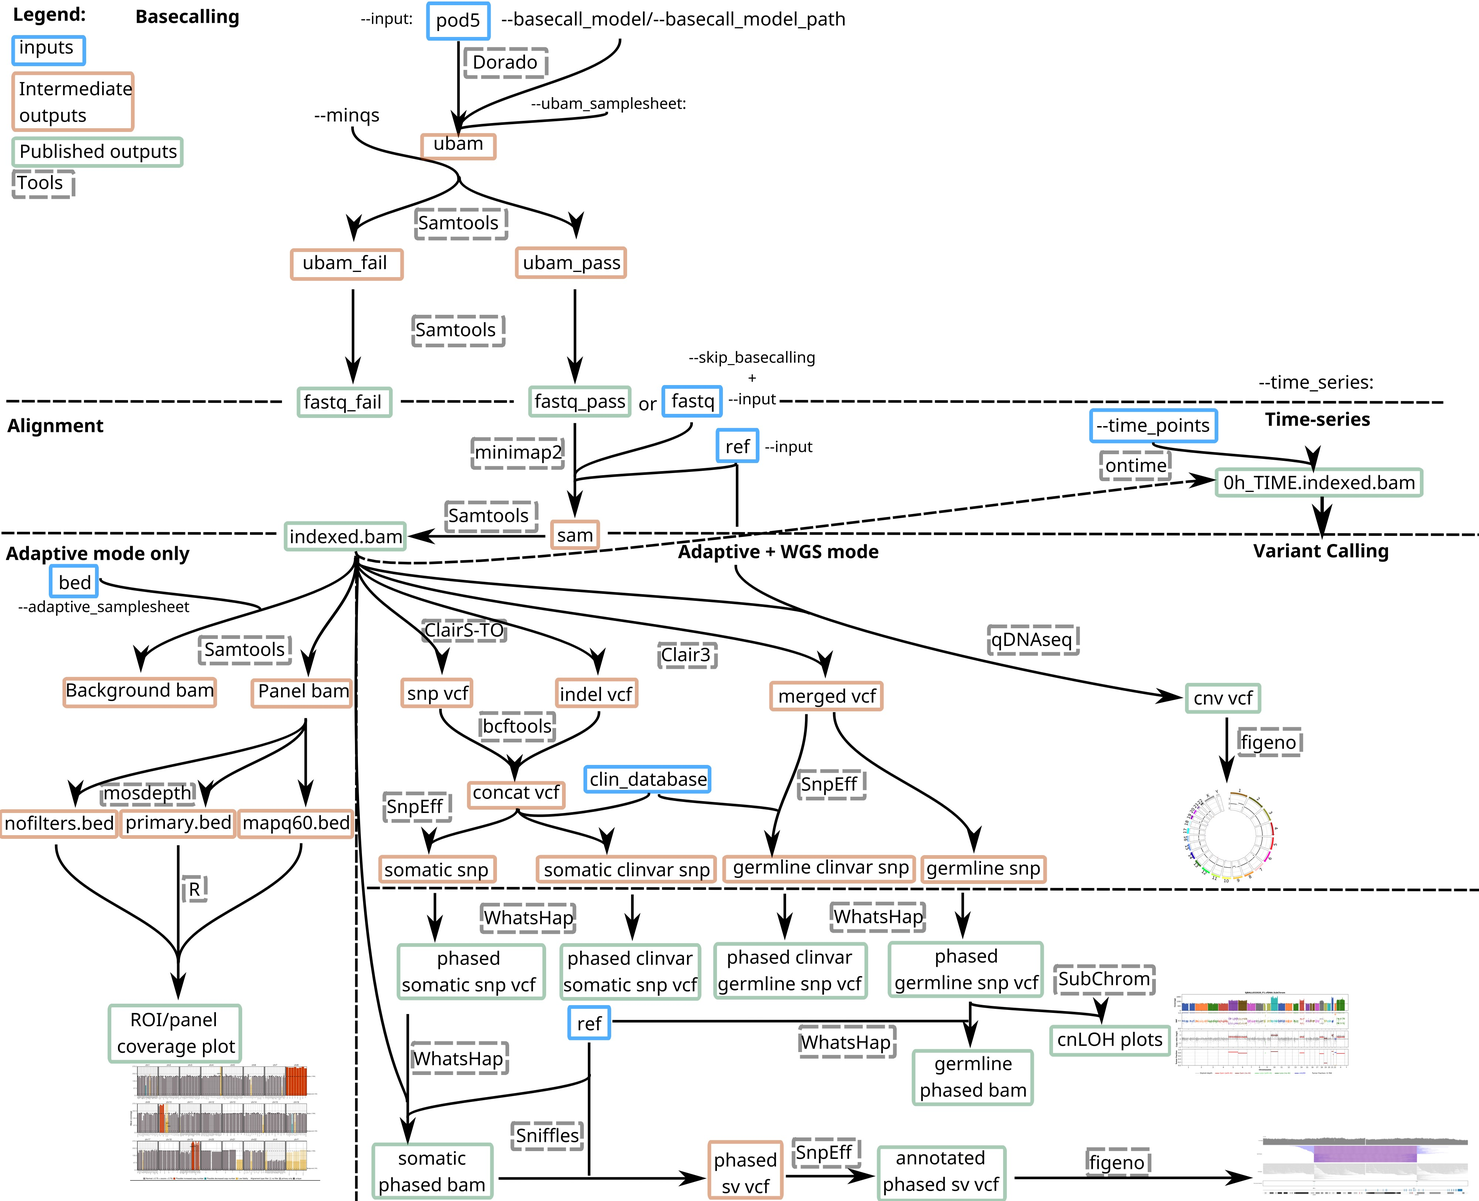
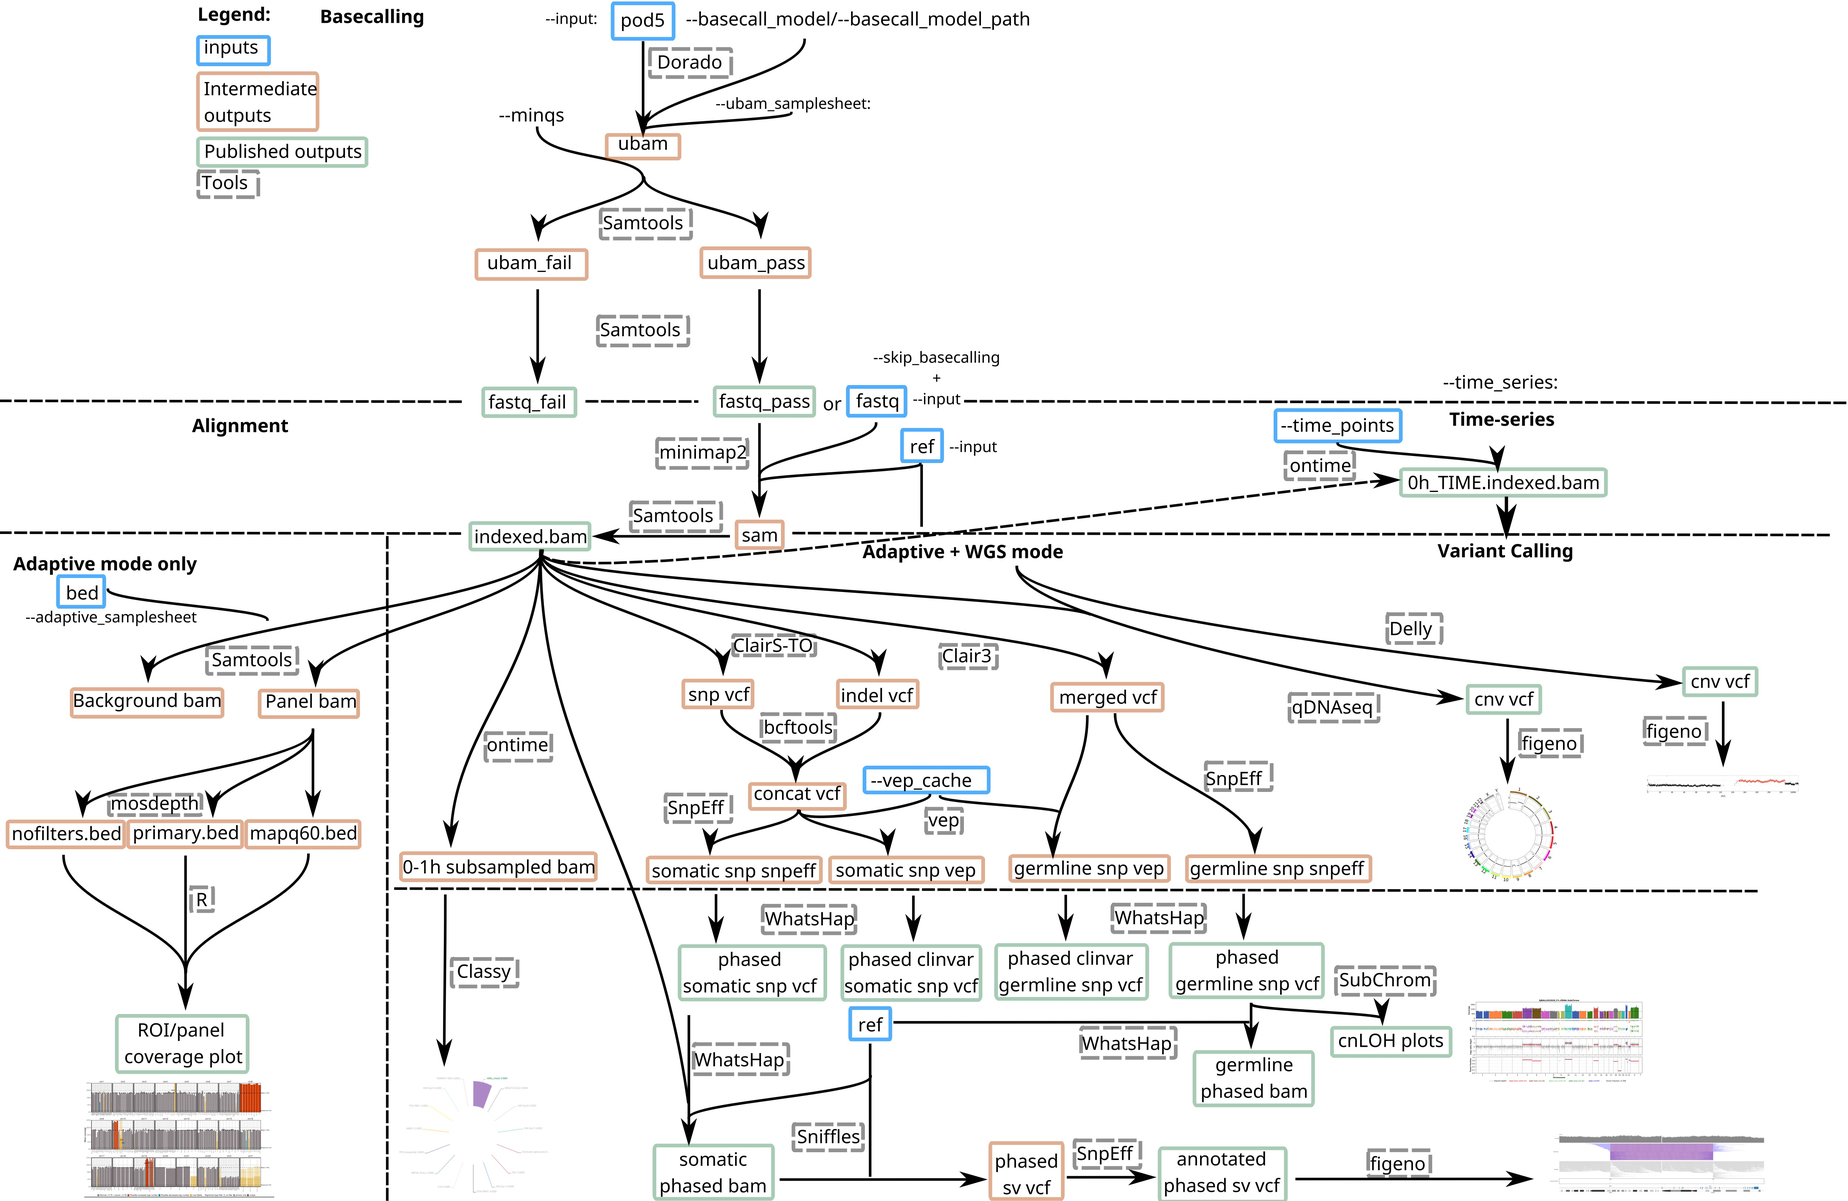
Updated readme

diff --git a/README.md b/README.md
@@ -40,14 +40,14 @@ The general steps are as followed:
 2. **Read QC** – [Seqkit](https://bioinf.shenwei.me/seqkit/)
 3. **Alignment** – [minimap2](https://lh3.github.io/minimap2/minimap2.html)
    *(Optional: skip using `--skip_mapping` if bam input is provided)*
-4. **Tumor Classification** - [Marlin](https://github.com/hovestadt/MARLIN) or [Sturgeon](https://github.com/UMCUGenetics/sturgeon) *if tumor type is leukemia or cns and basecalled with 5mCG-5hmCG*
+4. **Tumor Classification** - [Marlin](https://github.com/hovestadt/MARLIN), [Sturgeon](https://github.com/UMCUGenetics/sturgeon), [CrossNN](https://gitlab.com/euskirchen-lab/crossNN), [Tucan](https://github.com/UMCUGenetics/tucan) implemented in Rust, with liftovers for reference used.
 5. **Alignment QC** – [Cramino](https://github.com/wdecoster/cramino)
 6. **CNV/cnLOH calling** – [QDNAseq](https://www.bioconductor.org/packages/QDNAseq), [SubChrom](https://github.com/Shaohua-Lei/SubChrom) and [Delly](https://github.com/dellytools/delly)
 7. **Variant calling** – [ClairS-TO](https://github.com/HKU-BAL/ClairS-TO), [Clair3](https://github.com/HKU-BAL/Clair3)
 8. **Structural variants** – [Sniffles2](https://github.com/fritzsedlazeck/Sniffles)
-9. **VCF Annotation** – [SnpEff](https://pcingola.github.io/SnpEff/)
-10. **Phasing** – [WhatsHap](https://whatshap.readthedocs.io/)
-11. **Reporting** - [Quarto](https://quarto.org/) report summarizing coverage and variant information
+9. **VCF Annotation** – [SnpEff](https://pcingola.github.io/SnpEff/) and [Ensemblvep](https://grch37.ensembl.org/info/docs/tools/vep/index.html)
+10. **Phasing** – [WhatsHap](https://whatshap.readthedocs.io/) (only for `--adaptive` and `--wgs` modes)
+11. **Reporting** - [Quarto](https://quarto.org/) report summarizing coverage, variant information and methylation based tumor classification
 
 ---
 
@@ -68,7 +68,7 @@ For prospectively run the workflow on different timepoints, [Ontime](https://git
 
 #### Tumor classification
 
-Runs on basecalled 5mC/5hmC reads when `--realtime INT` is used.
+Runs on basecalled 5mC/5hmC reads.
 
 Downsampling (`Ontime`) rules:
 
@@ -77,9 +77,11 @@ Downsampling (`Ontime`) rules:
 
 Tools:
 
+All classifiers are used, but their relevency is the following:
+
 - **Leukemia** → *Marlin*
-- **CNS** → *Sturgeon*
-  - Uses the **T2T CHM13v2.0** reference
+- **CNS** → *Sturgeon* and *CrossNN Caper*
+- **Pan cancer** → *CrossNN Pancancer* and *Tucan*
 
 ---
 
@@ -91,6 +93,8 @@ Tools:
 - SubChrom if ≥15×
 
 If you want to run IchorCNA as part of the cfDNA mode, please include `-profile ichor_hg38` or `-profile ichor_hg19` depending on your reference genome.
+
+![nf-core-oncoseq summary of workflow with `--cfdna`](assets/nf-core-oncoseq_cfdna.jpg)
 
 ---
 
@@ -106,9 +110,9 @@ First, prepare a samplesheet with your input data that looks as follows:
 
 `samplesheet.csv`:
 
-| sample <br> *(required)* | project <br> *(only with `--demux`)* | input <br> *(required)* | ref <br> *(required if not provided as parameter)* | ref_path <br> *(required if not provided as parameter)* | kit <br> *(only with `--demux`)* | bed <br> *(only with `--adaptive` and if not provided as parameter)* | low_fidelity <br> *(only with `--adaptive` and if not provided as parameter)* | padding <br> *(only with `--adaptive` and if not provided as parameter)* | purity <br> *(only with `--cfdna`)* | filter <br> *(only with `--cfdna`)* | tumor_type <br> |
+| sample <br> *(required)* | project <br> *(only with `--demux`)* | input <br> *(required)* | ref <br> *(required if not provided as parameter)* | ref_path <br> *(required if not provided as parameter)* | kit <br> *(only with `--demux`)* | bed <br> *(only with `--adaptive` and if not provided as parameter)* | low_fidelity <br> *(only with `--adaptive` and if not provided as parameter)* | padding <br> *(only with `--adaptive` and if not provided as parameter)* | purity <br> *(only with `--cfdna`)* | filter <br> *(only with `--cfdna`)* |
 |---------------------------|-------------------------|-----------------------|-----------------------------|----------------------------------|------------------------------------|--------------------------------------------------------------------------|--------------------------------------------|--------------------------------------------|---------------------------|-----------------------------|-------------------------------------------|
-| sample1 | project ID for multiplexed input | path to <br> pod5, fastq or bam | hg38 | Path to reference genome, <br> index must exist in this path | Multiplexing kit used | Path to BED file containing <br> regions targeted by adaptive sampling | List of low-fidelity genes <br> in panel | Padding used around ROI <br> in bp | Estimated tumor purity <br> (between 0 and 1) | `yes` or `no` — whether to <br> filter out genomic DNA | leukemia, cns or other — <br> will run tumor classifier |
+| sample1 | project ID for multiplexed input | path to <br> pod5, fastq or bam | hg38 | Path to reference genome, <br> index must exist in this path | Multiplexing kit used | Path to BED file containing <br> regions targeted by adaptive sampling | List of low-fidelity genes <br> in panel | Padding used around ROI <br> in bp | Estimated tumor purity <br> (between 0 and 1) | `yes` or `no` — whether to <br> filter out genomic DNA
 
 
 
@@ -119,12 +123,11 @@ Now, you can run the pipeline using:
 <!-- TODO nf-core: update the following command to include all required parameters for a minimal example -->
 
 ```bash
-nextflow run chusj-pigu/nf-core-oncoseq \
+nextflow run nf-core/oncoseq \
    -profile narval \
    --input samplesheet.csv \
    --outdir results \
-   --clin_database /path/to/clinvar.vcf.gz \
-   --model sup \
+   --reference_cache_dir /path/to/reference/cache \
    [--adaptive | --wgs | --cfdna] \
    [--realtime INT] \
    [--skip_basecalling] \
@@ -135,7 +138,7 @@ By default, the pipeline will run in adaptive mode starting from basecalling, bu
 
 If your input is already basecalled, use the parameter `--skip_basecalling` and provide the path to fastq files or folder containing fastq files in input. If your input is already mapped with minimap2, use the parameter `--skip_mapping` and provide the path to bam files or folder containing bam files as input.
 
-The parameter `--clin_database` indicates the path or URL to the ClinVar database that [SnpEff](https://pcingola.github.io/SnpEff/) will use to annotate the SNP vcf files. If not provided, the pipeline defaults to `https://ftp.ncbi.nlm.nih.gov/pub/clinvar/vcf_GRCh38/clinvar.vcf.gz` and expects the corresponding `.tbi` index at the same location. If you need a different ClinVar build, you can use the NCBI GRCh38 or GRCh37 directories and pass the `.vcf.gz` path explicitly.
+The parameter `--vep_cache` indicates the path to the Ensembl vep database.
 
 To run in real time while data is still sequencing, use the `--realtime [INT]` where you must provide the time of sequencing as an integer. **This is only available for the adaptive mode**
 
@@ -154,47 +157,51 @@ For more details and further functionality, please refer to the [usage documenta
 |------------------------|----------|---------|-----------------------------------------------------------------------------|
 | `--input`              | `path`   | _None_  | Path to input samplesheet (**required**).                                   |
 | `--outdir`             | `path`   | _None_  | Directory where outputs will be published (**required**).                   |
-| `--basecall_model`     | `string` | _None_  | Dorado basecalling model to use (**required** if not using `--basecall_model_path`). |
-| `--m_bases`            | `string` | _None_  | Basecalling modification model name.                                        |
-| `--basecall_model_path`| `path`   | _None_  | Path to local copy of Dorado model (**required** if no network connection). |
-| `--ref`                | `path`   | _None_  | Path to reference genome (must include index) (**required** if not in samplesheet)                              |
-| `--ref_id`             | `path`   | hg38    | Reference ID (either hg19/GRCh37 or hg39/GRCh38)                            |
-| `--demux`              | `bool`   | `false` | Enable demultiplexing after basecalling.                                    |
-| `--skip_basecalling`   | `bool`   | `false` | Skip basecalling (use FASTQ files as input).                                |
-| `--skip_mapping`       | `bool`   | `false` | Skip basecalling + mapping (use BAM files as input).                        |
-| `--clin_database`      | `path`   | `https://ftp.ncbi.nlm.nih.gov/pub/clinvar/vcf_GRCh38/clinvar.vcf.gz`  | Path or URL to clinical database for annotating VCF files. The matching `.tbi` index must be available alongside it.          |
+| `--reference_cache_dir`| `path`   | workspace | Directory for staging reference assets and Dorado models.                   |
+| `--basecall_model`     | `string` | _None_  | Dorado basecalling model name (e.g., `sup`, `hac`, `fast`). Supports version pinning with `@v`. |
+| `--m_bases`            | `string` | _None_  | Basecalling modification model (e.g., `5mC_5hmC`, `5mC`).                   |
+| `--ref`                | `path`   | _None_  | Path to reference genome (must include `.fai` index). Required if not in samplesheet. |
+| `--ref_id`             | `string` | hg38    | Reference genome ID: `hg38` (GRCh38) or `hg19` (GRCh37).                    |
+| `--skip_basecalling`   | `bool`   | `false` | Skip basecalling; input is FASTQ files.                                     |
+| `--skip_mapping`       | `bool`   | `false` | Skip basecalling and mapping; input is BAM files.                           |
+| `--demux`              | `bool`   | `false` | Enable demultiplexing via `--demux_samplesheet` (requires kit column).       |
+| `--demux_samplesheet`  | `path`   | _None_  | Samplesheet with demux info: barcode, sample name (requires `--demux`).     |
 
 ---
 
-### Modes
+### Pipeline Modes
+
+Choose exactly one mode:
 
 | Parameter        | Type   | Default | Description                                                   |
 |------------------|--------|---------|---------------------------------------------------------------|
-| `--adaptive`     | `bool` | `false` | Enable adaptive sampling mode.                                |
-| `--wgs`          | `bool` | `false` | Whole Genome Sequencing (WGS) mode.                           |
-| `--cfdna`        | `bool` | `false` | cf-DNA mode (in development).                                 |
-| `--realtime`     | `int`  | _None_  | Enable realtime mode (only valid with `--adaptive`).          |
+| `--adaptive`     | `bool` | `false` | Adaptive sampling mode (requires `--bed`, `--padding`).        |
+| `--wgs`          | `bool` | `false` | Whole Genome Sequencing mode.                                 |
+| `--cfdna`        | `bool` | `false` | cf-DNA sequencing mode (in development).                      |
+| `--realtime`     | `int`  | _None_  | Real-time mode for ongoing sequencing (hours). Adaptive only. |
+| `--time_series`  | `bool` | `false` | Enable time series analysis with `--time_points`.             |
 
 ---
 
-### Adaptive Mode Parameters
+### Adaptive Sampling Parameters
 
 | Parameter               | Type   | Default | Description                                                                 |
 |--------------------------|--------|---------|-----------------------------------------------------------------------------|
-| `--bed`                  | `path` | _None_  | Path to BED file for adaptive sampling (**required** if not in samplesheet). |
-| `--low_fidelity`         | `path` | _None_  | List of low-fidelity genes for adaptive sampling.                           |
-| `--padding`              | `int`  | _None_  | Padding (in bp) around target regions (**required** if not in samplesheet). |
+| `--bed`                  | `path` | _None_  | BED file with target regions (**required** for `--adaptive`).               |
+| `--adaptive_samplesheet` | `path` | _None_  | Samplesheet specifying per-sample BED files (overrides `--bed`).            |
+| `--padding`              | `int`  | `20000` | Padding (bp) around target regions (**required** for `--adaptive`).         |
+| `--low_fidelity`         | `path` | default | Path to text file listing low-fidelity genes to exclude from coverage.     |
 
 ---
 
-### Basecalling Options
+### Basecalling and Mapping Options
 
 | Parameter         | Type     | Default | Description                                                                 |
 |-------------------|----------|---------|-----------------------------------------------------------------------------|
-| `--minqs`         | `int`    | `10`    | Minimum Phred quality score for filtering reads.                            |
-| `--device`        | `string` | _None_  | GPUs to use for basecalling (e.g. `cuda:0,1`).                              |
-| `--batch`         | `int`    | _None_  | Batch size for basecalling.                                                 |
-| `--mapping_small` | `bool`   | `true`  | Use reduced compute resources for mapping (recommended for adaptive/cfDNA). |
+| `--minqs`         | `int`    | `10`    | Minimum Phred quality score for read filtering.                             |
+| `--device`        | `string` | _None_  | GPU devices for Dorado (e.g., `cuda:0,1`). Auto-detects if not specified.  |
+| `--batch`         | `int`    | _None_  | Batch size for basecalling (auto-tuned if not specified).                  |
+| `--mapping_small` | `bool`   | `true`  | Use reduced resources for mapping (recommended for adaptive/cfDNA).        |
 
 ---
 
@@ -202,11 +209,56 @@ For more details and further functionality, please refer to the [usage documenta
 
 | Parameter          | Type     | Default                            | Description                                                                 |
 |--------------------|----------|------------------------------------|-----------------------------------------------------------------------------|
-| `--clairsto_model` | `string` | `ont_r10_dorado_sup_5khz_ssrs`     | ClairS-TO model to use.                                                     |
-| `--sv_targets`     | `path`   | _None_                             | Regions of interest for SV visualization (CSV with `GENE,pos` columns).     |
-| `--qdnaseq_binsize`| `int`    | `500`                              | Bin size (kb) for QDNAseq calling.                                          |
-| `--subchrom_binsize`| `int`   | `500`                              | Bin size (kb) for Subchrom calling.                                         |
-| `--delly_binsize`  | `int`   | `50000`                              | Bin size (bp) for Delly CNV calling.                                         |
+| `--clairsto_model` | `string` | `ont_r10_dorado_sup_5khz_ssrs`     | ClairS-TO model for somatic SNV/indel calling.                              |
+| `--qdnaseq_binsize`| `int`    | `500`                              | Bin size (kb) for QDNAseq CNV calling.                                      |
+| `--subchrom_binsize`| `int`   | `500`                              | Bin size (kb) for SubChrom CNV calling.                                     |
+| `--delly_bin_size` | `int`    | `50000`                            | Bin size (bp) for Delly CNV calling.                                        |
+| `--sv_targets`     | `path`   | `NOCSV`                            | CSV file for SV visualization: columns `GENE`, `pos` (Figeno output).       |
+| `--sv_exclude`     | `path`   | default                            | Path to text file listing genes to exclude from SV analysis.                |
+
+---
+
+### VEP Annotation Options
+
+| Parameter              | Type     | Default | Description                                                                 |
+|------------------------|----------|---------|-----------------------------------------------------------------------------|
+| `--vep_cache`          | `path`   | _None_  | Path to VEP cache directory (**required** for annotation).                  |
+| `--vep_version`        | `int`    | `115`   | Ensembl VEP version matching your cache.                                    |
+| `--filtervep_expression` | `string` | (see schema) | FilterVEP expression for SNV filtering (impacts, frequencies, etc.). |
+
+---
+
+### cf-DNA Mode Parameters
+
+| Parameter               | Type     | Default | Description                                                                 |
+|------------------------|----------|---------|-----------------------------------------------------------------------------|
+| `--max_length`         | `int`    | `700`   | Maximum read length (bp) for cf-DNA filtering (removes longer reads).       |
+| `--ichor_bin_size`     | `int`    | `500000` | Bin size (bp) for IchorCNA CNV calling.                                     |
+| `--min_mapq_ichor`     | `int`    | `20`    | Minimum MAPQ threshold for IchorCNA.                                        |
+| `--rca`                | `bool`   | `false` | Enable rolling circle amplification mode (runs TideHunter).                 |
+
+---
+
+### Time Series Analysis Parameters
+
+| Parameter             | Type     | Default | Description                                                                 |
+|------------------------|----------|---------|-----------------------------------------------------------------------------|
+| `--time_series`       | `bool`   | `false` | Enable time series analysis (downsamples via Ontime).                      |
+| `--time_points`       | `string` | `1,3,6,12,18,24,48,60,72` | Comma-separated downsampling timepoints (hours).  |
+| `--include_full`      | `bool`   | `true`  | Include full-depth analysis alongside downsampled timepoints.              |
+
+---
+
+### Reference Cache and Resource Parameters
+
+| Parameter             | Type     | Default | Description                                                                 |
+|------------------------|----------|---------|-----------------------------------------------------------------------------|
+| `--ubam`              | `path`   | `NOFILE` | Path to incomplete uBAM for basecalling resume.                             |
+| `--ubam_samplesheet`  | `path`   | _None_  | Samplesheet pointing to uBAM files to restart basecalling from.             |
+| `--max_memory`        | `string` | `16G`   | Maximum memory any process can consume.                                     |
+| `--max_cpus`          | `int`    | `4`     | Maximum CPU cores any process can use.                                      |
+| `--max_time`          | `string` | `4h`    | Maximum execution time any process can take.                                |
+| `--huge`              | `bool`   | `false` | Scale resource allocations for very large datasets.                         |
 
 
 ## Pipeline output
@@ -220,16 +272,16 @@ For more details about the output files and reports, please refer to the
 | reads/{sample}_passed.fq.gz | Merged raw reads that have passed filter of average QS >= `--minqs` | If --skip_basecalling is not used |
 | reads/{sample}_failed.fq.gz | Merged raw reads that have failed filter of average QS >= `--minqs` | If --skip_basecalling is not used |
 | alignments/{sample}.sorted.bam<br>alignments/{sample}.sorted.bam.bai | Aligned and sorted bam file mapped to reference along with it's index | Always |
-| variants/{sample}_snp_somatic_phased.vcf.gz<br>variants/{sample}_snp_somatic_clinvar_phased.vcf.gz | VCF files of phased SNV and indels called by [ClairS-TO](https://github.com/HKU-BAL/ClairS-TO)  | If `--adaptive` or `--wgs` mode is used |
-| variants/{sample}_snp_germline_phased.vcf.gz<br>variants/{sample}_snp_germline_clinvar_phased.vcf.gz | VCF files of phased SNV and indels called by [Clair3](https://github.com/HKU-BAL/Clair3)  | If `--adaptive` or `--wgs` mode is used |
-| variants/{sample}_sv.vcf.gz | VCF file of phased SV called by [Sniffles2](https://github.com/fritzsedlazeck/Sniffles) | If `--adaptive` or `--wgs` mode is used |
+| variants/{sample}_snp_somatic_phased.vcf.gz<br>variants/{sample}_snp_somatic_vep.vcf.gz | VCF files of phased SNV and indels called by [ClairS-TO](https://github.com/HKU-BAL/ClairS-TO)  | If `--adaptive` or `--wgs` mode is used, or if `--cfdna` coverage is > 10X |
+| variants/{sample}_snp_germline_phased.vcf.gz<br>variants/{sample}_snp_germline_vep.vcf.gz | VCF files of phased SNV and indels called by [Clair3](https://github.com/HKU-BAL/Clair3)  | If `--adaptive` or `--wgs` mode is used, or if `--cfdna` coverage is > 10X |
+| variants/{sample}_sv.vcf.gz | VCF file of phased SV called by [Sniffles2](https://github.com/fritzsedlazeck/Sniffles) | Always |
 | variants/qdnaseq/{sample}_cnv_calls.vcf | VCF file of CNV called by [QDNAseq](https://www.bioconductor.org/packages/release/bioc/html/QDNAseq.html) | Always |
 | variants/delly/{sample}_cnv_calls.vcf | VCF file of CNV called by [Delly](https://github.com/dellytools/delly) | Always |
 | variants/subchrom/{sample}_cnv_calls.vcf | VCF file of CNV called by [SubChrom](https://github.com/Shaohua-Lei/SubChrom) | If `--adaptive` or `--wgs` mode is used: Always, if `--cfdna` is used, only with samples >= 15X |
 | phasing/{sample}_haplotagged.bam<br>phasing/{sample}_haplotagged.bam.bai | Aligned bam and index file including phasing HP tags added by [WhatsHap](https://whatshap.readthedocs.io/en/latest/index.html) | If `--adaptive` or `--wgs` mode is used |
 | phasing/{sample}.haploblocks.gtf | Gtf files containing phase blocks | If `--adaptive` or `--wgs` mode is used |
 | reports/{sample}_report_output | Directory containing Quarto files and report | Always |
-| reports/tumor_classifiers | Results of tumor classifiers | Depends on tumor type |
+| reports/tumor_classifiers | Results of tumor classifiers | Always |
 | reports/seqkit/{sample}_pass.tsv<br>reports/{sample}_fail.tsv | Passed and failed fastq files stats | Always |
 | reports/cramino/{sample}_cramino_stats.txt | Alignment summary stats | Always |
 | reports/{sample}_coverage_mapq.pdf | Plot showing ROIs coverage | If `--adaptive` mode is used |
